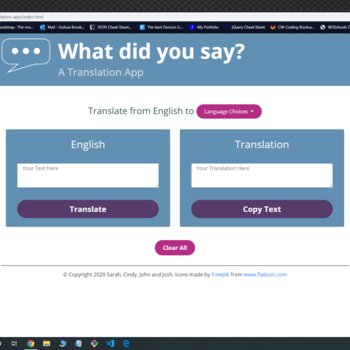
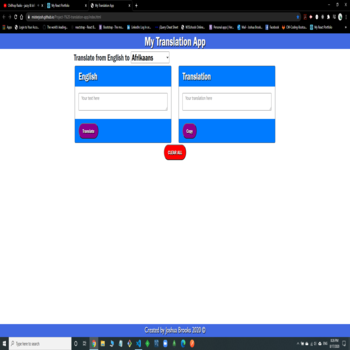
Changes after all 3 projects had issues

diff --git a/src/components/portfolio/Portfolio.js b/src/components/portfolio/Portfolio.js
@@ -1,6 +1,6 @@
 import React from 'react';
 import "./portfolio.css";
-import dayplanner from "../../images/DayPlanner.png";
+// import dayplanner from "../../images/DayPlanner.png";
 import translator from "../../images/TranslationApp.png";
 import weather from "../../images/WeatherApp.png";
 import timecapsule from "../../images/timecapsule/timecapsule1.png";
@@ -15,7 +15,7 @@ export default function Portfolio() {
                     <article className="block">
                         <h1 className="block-header">My Portfolio</h1>
                         <hr />
-                        <div className="row">
+                        {/* <div className="row">
                             <div className="col-sm-6 col-md-12 col-lg-6">
                                 <a href="https://misterjosh.github.io/Homework%2005%20-%20Weekday%20Scheduler%20(3rd%20Party%20APIs)/Develop/index.html" 
                                     data-toggle="tooltip" 
@@ -40,7 +40,7 @@ export default function Portfolio() {
                                         </a>.
                                     </p>
                             </div>
-                        </div>
+                        </div> */}
                         <div className="row">
                         <div className="col-sm-6 col-md-12 col-lg-6">
                                 <a href="https://misterjosh.github.io/Homework-06-WeatherApp/index.html" 
@@ -66,14 +66,14 @@ export default function Portfolio() {
                         </div>
                         <div className="row">
                         <div className="col-sm-6 col-md-12 col-lg-6">
-                                <a href="https://misterjosh.github.io/Project-1%20-translation-app/index.html" 
+                                {/* <a href="https://misterjosh.github.io/Project-1%20-translation-app/index.html" 
                                     data-toggle="tooltip" 
                                     data-placement="top" 
                                     title="" 
                                     target="_blank" 
-                                    rel="noopener noreferrer">
+                                    rel="noopener noreferrer"> */}
                                     <img className="shadow img-fluid port-image" target="_blank" src={translator} alt="What did you say? Translation app"></img>
-                                </a> 
+                                {/* </a>  */}
                             </div>
                             <div className="col-sm-6 col-md-12 col-lg-6">
                                 <h5>What did you say?</h5>
@@ -82,18 +82,19 @@ export default function Portfolio() {
                                         , and <span className="spanb">Axios</span> to make API calls.
                                     </p>
                                     <p>
-                                        This app allows you to translate from English to 93 other languages.
+                                        This app used to translate from English to 93 other languages.
                                     </p>
                                     <p>
-                                        The image has an imbedded link to the app. This was my first group project. We didn't get it to where I wanted it. I decided to reworked it. The code is available on 
-                                        <a href="https://github.com/Misterjosh/translation-app-upgrade" target="_blank" rel="noopener noreferrer"> Github</a>.
+                                        This was my first group project. Yandex shut down our API key and it hasn't worked since. My code is available on 
+                                        <a href="https://github.com/Misterjosh/translation-app-upgrade" target="_blank" rel="noopener noreferrer"> Github</a>. Feel free to look at my work.
                                     </p> 
                             </div>
                         </div>
                         <div className="row">
                         <div className="col-sm-6 col-md-12 col-lg-6">
-                                <a href="/timecapsule" data-toggle="tooltip" data-placement="top" title="" target="_blank" rel="noopener noreferrer">
-                                    <img className="shadow img-fluid port-image" target="_blank" src={timecapsule} alt="Time capsule"></img></a> 
+                                {/* <a href="/timecapsule" data-toggle="tooltip" data-placement="top" title="" target="_blank" rel="noopener noreferrer"> */}
+                                    <img className="shadow img-fluid port-image" target="_blank" src={timecapsule} alt="Time capsule"></img>
+                                    {/* </a>  */}
                             </div>
                             <div className="col-sm-6 col-md-12 col-lg-6">
                                 <h5>Time Capsule</h5>
@@ -106,15 +107,15 @@ export default function Portfolio() {
                                     We wanted to make a digital time capsule. You could put images, messages, and videos in. You would choose who to send it to, 
                                     pick a date to have it delivered, seal it, and it would be stored until delivery date.
                                     </p>
-                                    <p>We didn't get it completed or hosted. The image links to a page I made to describe and show what we did get done.
-                                    The code is available on <a href="https://github.com/JamesWalterHudeck/Project2-timeCapsule" target="_blank" rel="noopener noreferrer">Github</a>. 
+                                    <p>We didn't get it completed or hosted. It wasn't my repo and will most likely never be functional. 
+                                    My code is available on <a href="https://github.com/JamesWalterHudeck/Project2-timeCapsule" target="_blank" rel="noopener noreferrer">Github</a>. 
                                     </p>
                             </div>
                         </div>
                         <div className="row">
                             <div className="col-sm-6 col-md-12 col-lg-6">
-                                <a href="/" data-toggle="tooltip" data-placement="top" title="" target="_blank" rel="noopener noreferrer">
-                                    <img className="shadow img-fluid port-image" target="_blank" src={chickentinder} alt="Chicken Tinder"></img></a> 
+                                {/* <a href="/" data-toggle="tooltip" data-placement="top" title="" target="_blank" rel="noopener noreferrer"></a>  */}
+                                    <img className="shadow img-fluid port-image" target="_blank" src={chickentinder} alt="Chicken Tinder"></img>
                             </div>
                             <div className="col-sm-6 col-md-12 col-lg-6">
                                 <h5>Chicken Tinder</h5>
@@ -127,7 +128,7 @@ export default function Portfolio() {
                                     We wanted to make an app that allows people that can't decide on where to eat, pick a group of 5 places they like. Then compares the results and shows results if they have a match.
                                 </p>
                                 <p>
-                                    It isn't hosted yet, but the code is available on <a href="https://github.com/BethanyWebb/Final" target="_blank" rel="noopener noreferrer">Github</a>.
+                                    It isn't hosted(not my repo again). If you want, I can demo it locally. Also, the code is available on <a href="https://github.com/BethanyWebb/Final" target="_blank" rel="noopener noreferrer">Github</a>.
                                 </p>
                             </div>
                         </div>

diff --git a/src/pages/contact/Contact.js b/src/pages/contact/Contact.js
@@ -13,23 +13,31 @@ export default function Contact() {
                         <article className="block">
                             <h1 className="block-header">Contact Me</h1>
                             <hr />
-                            <h3 className="non-header">If you like what you've seen, reach out. I'm always happy to pass along a copy of my resume.</h3>
-                            <h4>Please Click a link below</h4>
-                            <div className="row">
-                                <div className="col-sm-6 col-md-6 col-lg-6">
-                                    <img src={thankyou} 
+                            <img src={thankyou} 
                                     data-toggle="tooltip" 
                                     data-placement="bottom" 
                                     title="Thanks for stopping by" 
                                     alt="A neon light of the words thank you"
                                     className=""/>
+                                    <h3 className="non-header">If you like what you've seen, you can reach me at <a href="mailto:defautjoshua@gmail.com">defaultjoshua@gmail.com</a>.</h3>
+                            {/* <h4>Please Click a link below</h4> */}
+                            <div className="row">
+                                <div className="col-sm-6 col-md-6 col-lg-6">
+                                    {/* <img src={thankyou} 
+                                    data-toggle="tooltip" 
+                                    data-placement="bottom" 
+                                    title="Thanks for stopping by" 
+                                    alt="A neon light of the words thank you"
+                                    className=""/> */}
                                 </div>
                                 <div className="col-sm-6 col-md-6 col-lg-6">
-                                <ul className="non-header">
-                                    <li><a href="mailto:defaultjosh@hotmail.com">defaultjosh@hotmail.com</a></li>
-                                    <li><a href="mailto:defautjoshua@gmail.com">defaultjoshua@gmail.com</a></li>
-                                    <li><a href="mailto:joshuaBrooks.developer@gmail.com">joshuabrooks.developer@gmail.com</a></li>
-                                </ul>
+                                {/* <ul className="non-header"> */}
+                                    {/* <li><a href="mailto:defaultjosh@hotmail.com">defaultjosh@hotmail.com</a></li> */}
+                                    {/* <li> */}
+                                        {/* <a href="mailto:defautjoshua@gmail.com">defaultjoshua@gmail.com</a> */}
+                                    {/* </li> */}
+                                    {/* <li><a href="mailto:joshuaBrooks.developer@gmail.com">joshuabrooks.developer@gmail.com</a></li> */}
+                                {/* </ul> */}
                                 </div>
                             </div>
                         </article>

diff --git a/src/pages/home/Home.js b/src/pages/home/Home.js
@@ -11,7 +11,7 @@ export default function Home() {
                 <section className="row">
                 <div className="col-md-12">
                     <article className="block">
-                        <h1 className="block-header logo">About Me</h1>
+                        <h1 className="block-header logo">Joshua Brooks</h1>
                         <hr />
                         <div className="row">
                             <div className="col me-photo">
@@ -23,11 +23,13 @@ export default function Home() {
                                 className=""/>
                             </div>
                             <div className="col">
-                                <p className="non-header">Hello. I am Joshua Brooks, a Full Stack Web Developer. 
-                                I have recently completed Case Western Reserve University's Coding Bootcamp. 
-                                I'm transitioning to a new careerfield, and look forward to learning and growing with your company.
+                                <p className="non-header">Full Stack Web Developer with extensive experience in Aviation. </p>
+                                <p className="non-header">Trained at Case Western Reserve University’s Coding Bootcamp. </p>
+                                <p className="non-header">Earned a Certificate in Full Stack Web Development. </p>
+                                <p className="non-header">Looking to transfer applied experience with Hard Deadlines, Demanding and Diverse Clientele, and Quickly Adapting to Resolve Unknown and Persistent Issues. </p>
+                                <p className="non-header">Mixing past experience with new knowledge of Building Responsive Web Sites, Writing Highly Functional JavaScript, and Manipulating a variety of Databases.
                                 </p>
-                                <p><a href="https://docs.google.com/document/d/e/2PACX-1vR7wq8xjYManvf_xwTVXhRIzRmzaMno6gZ_fMUMdMbsynTuEnXwojPzef3BZvyZ4Q/pub" target="_blank" rel="noopener noreferrer">Here is a link to my resume</a>
+                                <p ><a href="https://docs.google.com/document/d/e/2PACX-1vR7wq8xjYManvf_xwTVXhRIzRmzaMno6gZ_fMUMdMbsynTuEnXwojPzef3BZvyZ4Q/pub" target="_blank" rel="noopener noreferrer">Here is a link to my resume</a>
                                 </p>
                                 <br />
                                 <p>

diff --git a/src/app/App.js b/src/app/App.js
@@ -2,7 +2,7 @@ import React from 'react';
 import { BrowserRouter as Router, Route } from "react-router-dom";
 import Home from "../pages/home/Home";
 import Contact from "../pages/contact/Contact";
-import Timecapsule from "../pages/timecapsule/Timecapsule";
+// import Timecapsule from "../pages/timecapsule/Timecapsule";
 import Footer from "../components/footer/Footer";
 import MyNavbar from "../components/navbar/Navbar";
 import "./app.css";
@@ -14,7 +14,7 @@ function App() {
         <MyNavbar />
         <Route exact path="/" component={Home} />
         <Route exact path="/contact" component={Contact} />
-        <Route exact path="/timecapsule" component={Timecapsule} /> 
+        {/* <Route exact path="/timecapsule" component={Timecapsule} />  */}
         <Footer />
       </div>
     </Router>
